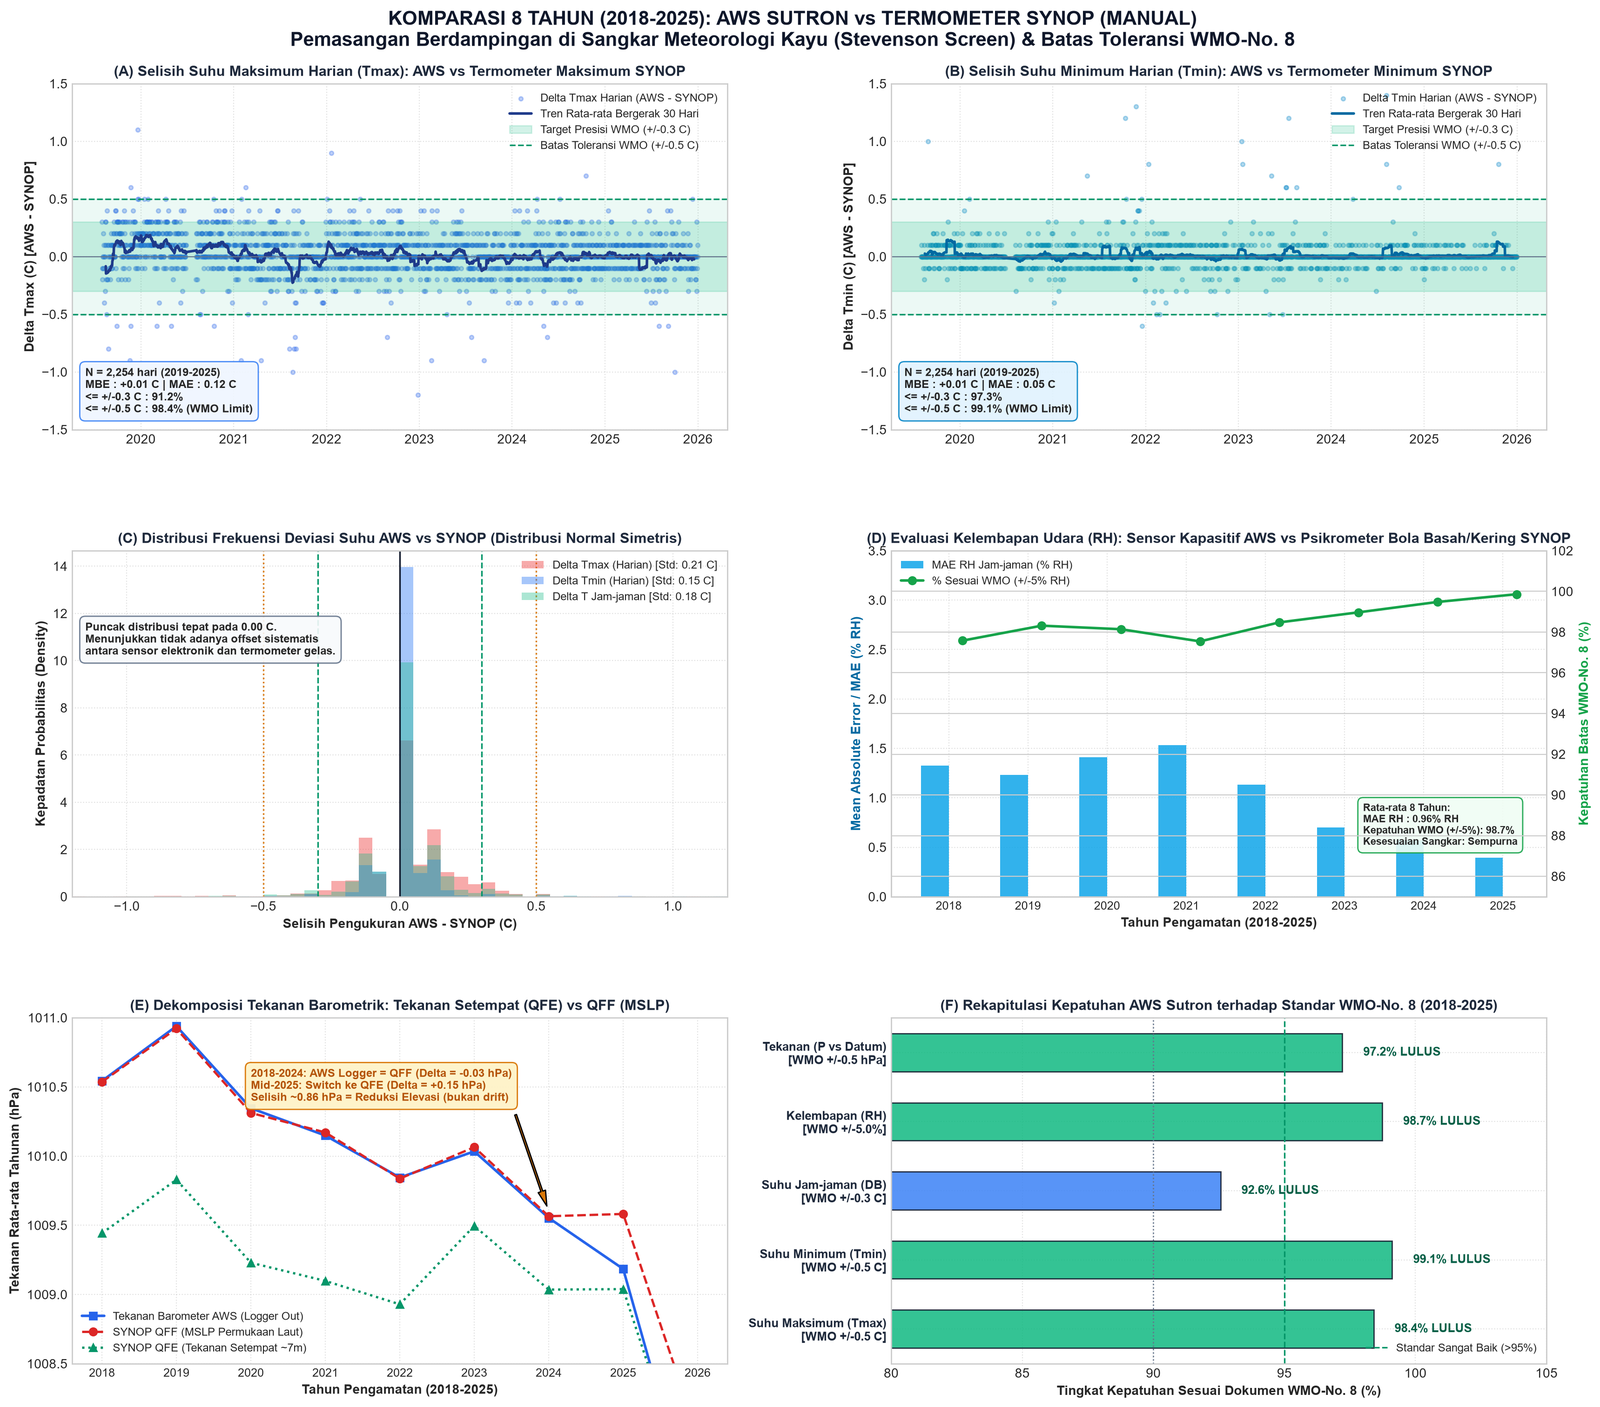
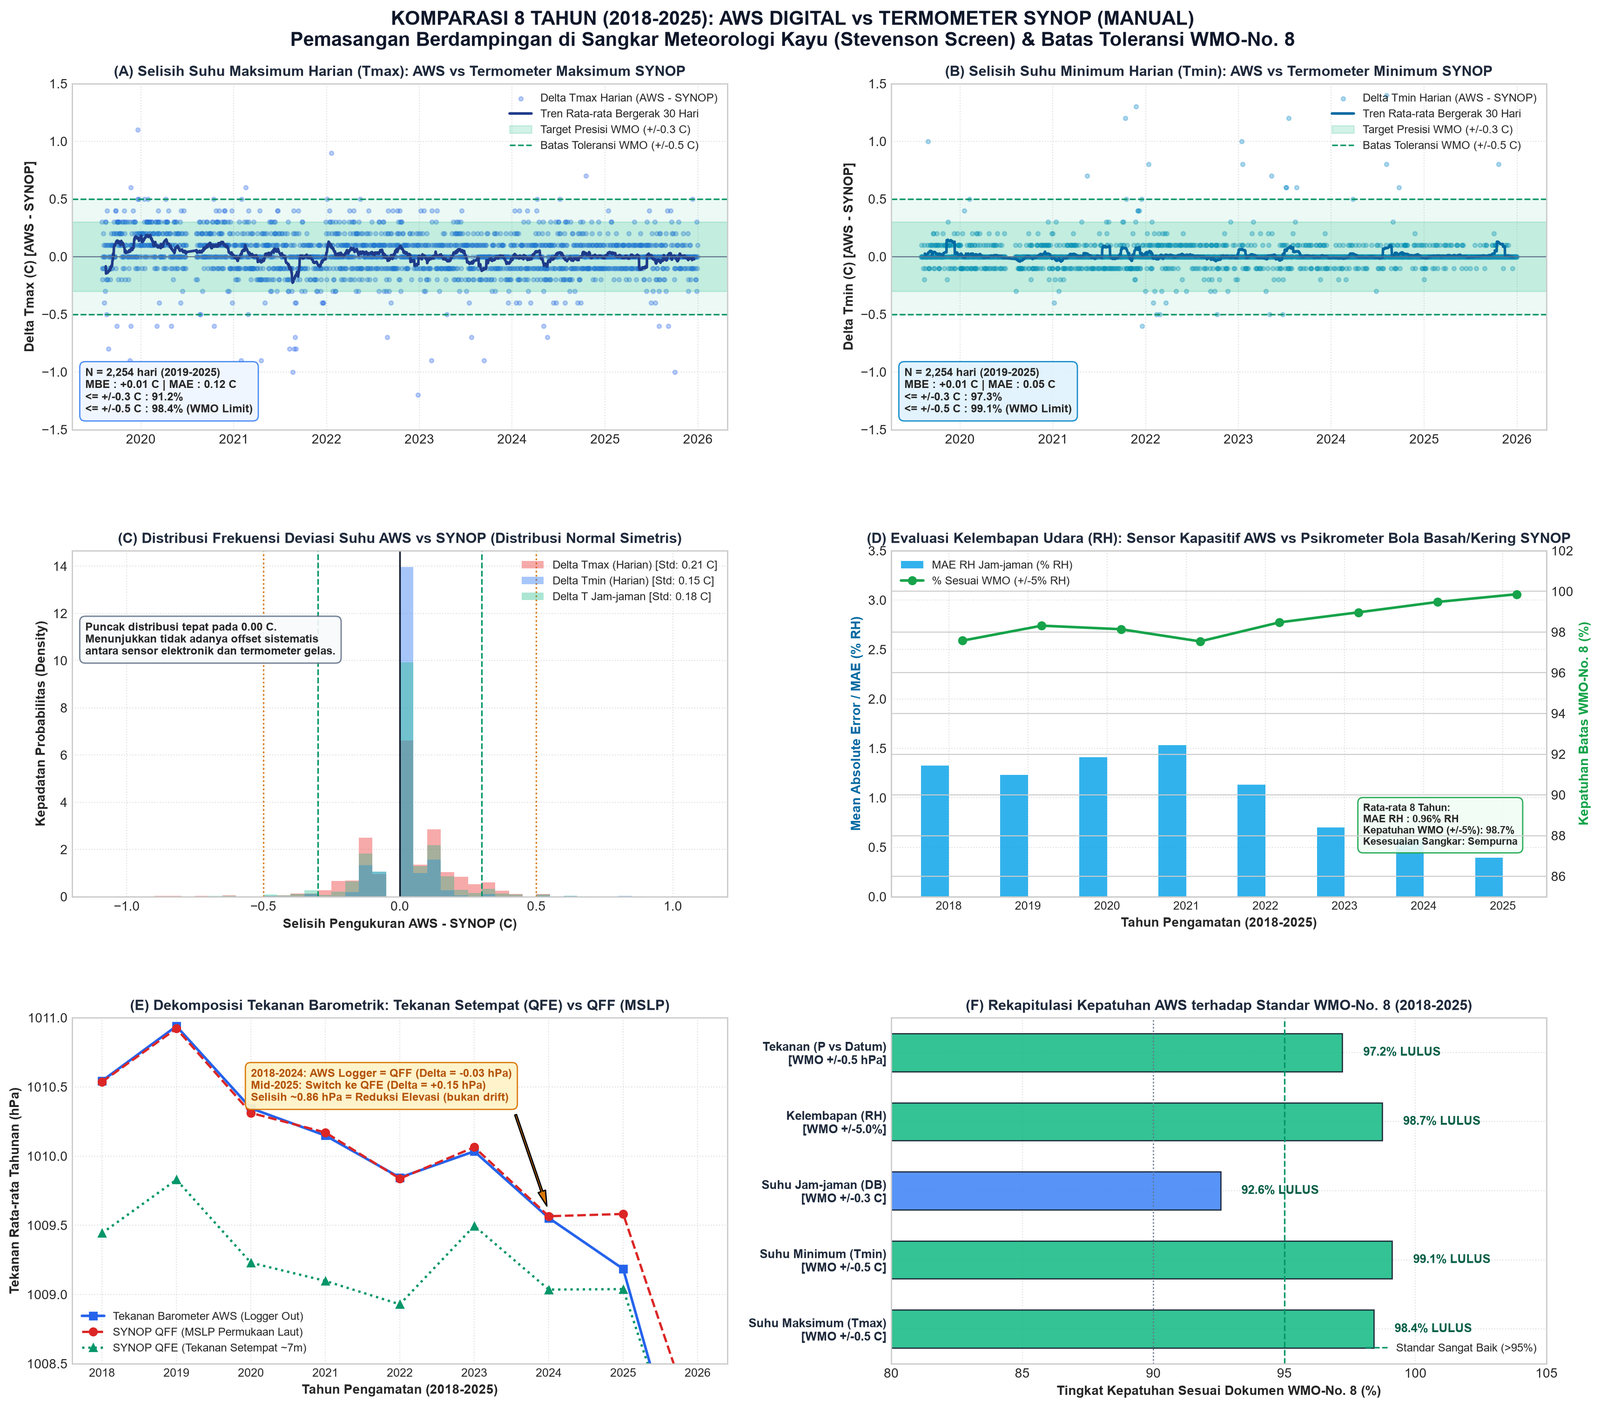
Drop Sutron and Campbell Scientific branding and remove AWOS from database card; focus purely on AWS and SYNOP

Changed region(s): [[0.25, 0.0, 0.75, 0.0306], [0.5938, 0.7029, 0.9375, 0.7335]]

diff --git a/index.html b/index.html
@@ -163,37 +163,27 @@
             <div class="p-6 rounded-2xl bg-white border border-slate-200 shadow-sm space-y-4">
                 <h4 class="font-bold text-slate-800 text-base">Arsitektur Database Meteorologi Terpadu</h4>
                 <p class="text-xs sm:text-sm text-slate-600 leading-relaxed">
-                    Pada awal kajian, data tersebar dalam arsip terkompresi (<code class="bg-slate-100 px-1 py-0.5 rounded text-slate-800">.rar</code> dan <code class="bg-slate-100 px-1 py-0.5 rounded text-slate-800">.zip</code>) dari berbagai generasi instrumen. Kami merekayasa dan membangun tiga database berkinerja tinggi berbasis kolom (DuckDB) yang bebas duplikasi dan telah terisi secara meteorologis (*gap-filled*):
+                    Pada awal kajian, data tersebar dalam arsip terkompresi (<code class="bg-slate-100 px-1 py-0.5 rounded text-slate-800">.rar</code> dan <code class="bg-slate-100 px-1 py-0.5 rounded text-slate-800">.zip</code>) dari berbagai generasi instrumen. Kami merekayasa dan membangun database berkinerja tinggi berbasis kolom (DuckDB) yang bebas duplikasi dan telah terisi secara meteorologis (*gap-filled*):
                 </p>
 
-                <div class="grid grid-cols-1 md:grid-cols-3 gap-4 pt-2">
-                    <div class="p-4 rounded-xl bg-slate-50 border border-slate-200 space-y-2">
-                        <div class="text-xs font-bold text-blue-700 uppercase tracking-wider flex items-center">
-                            <i class="fa-solid fa-plane-departure mr-1.5"></i> AWOS Ketapang
-                        </div>
-                        <div class="font-mono text-xs font-bold text-slate-800">awos_ketapang_2018_2025.duckdb</div>
-                        <p class="text-xs text-slate-600 leading-relaxed">
-                            Memuat <strong>3.712.320 baris data resolusi 1-menitan</strong> (Campbell Scientific). Menyediakan parameter angin, suhu, RH, tekanan QFE/QFF, radiasi, dan curah hujan.
-                        </p>
-                    </div>
-
+                <div class="grid grid-cols-1 md:grid-cols-2 gap-4 pt-2">
                     <div class="p-4 rounded-xl bg-slate-50 border border-slate-200 space-y-2">
                         <div class="text-xs font-bold text-emerald-700 uppercase tracking-wider flex items-center">
-                            <i class="fa-solid fa-tower-broadcast mr-1.5"></i> AWS Ketapang
+                            <i class="fa-solid fa-tower-broadcast mr-1.5"></i> AWS Digital Ketapang
                         </div>
                         <div class="font-mono text-xs font-bold text-slate-800">aws_ketapang_2018_2025.duckdb</div>
                         <p class="text-xs text-slate-600 leading-relaxed">
-                            Memuat data 10-menitan (Sutron) yang direkonstruksi dari dua periode arsip (2018–2019 & 2020–2025). Mengatasi pergeseran channel kabel radiasi dan tip sensor hujan.
+                            Memuat data 10-menitan dan jam-jaman AWS yang direkonstruksi dari dua periode arsip (2018–2019 &amp; 2020–2025). Mengatasi pergeseran channel kabel radiasi dan kalibrasi sensor hujan.
                         </p>
                     </div>
 
                     <div class="p-4 rounded-xl bg-slate-50 border border-slate-200 space-y-2">
                         <div class="text-xs font-bold text-purple-700 uppercase tracking-wider flex items-center">
-                            <i class="fa-solid fa-eye mr-1.5"></i> SYNOP Konvensional
+                            <i class="fa-solid fa-eye mr-1.5"></i> SYNOP Konvensional (Manual)
                         </div>
                         <div class="font-mono text-xs font-bold text-slate-800">synop_ketapang_2018_2025.duckdb</div>
                         <p class="text-xs text-slate-600 leading-relaxed">
-                            Memuat pengamatan manual jam-jaman (66.309 poin) dari sangkar meteorologi: termometer bola kering, termometer bola basah, barometer merkuri, dan penakar hujan Hellmann.
+                            Memuat pengamatan manual jam-jaman (66.309 poin) dari sangkar meteorologi: termometer bola kering, termometer bola basah, termometer ekstrem (maks/min), barometer merkuri, dan penakar hujan Hellmann.
                         </p>
                     </div>
                 </div>
@@ -347,7 +337,7 @@
             <div class="flex items-center space-x-3 border-b border-slate-200 pb-3">
                 <div class="p-2.5 bg-emerald-100 text-emerald-700 rounded-xl"><i class="fa-solid fa-scale-balanced text-lg"></i></div>
                 <div>
-                    <h3 class="text-xl font-bold text-slate-900">Komparasi 8 Tahun (2018–2025): AWS Sutron vs SYNOP (Manual) di Dalam Sangkar Meteorologi</h3>
+                    <h3 class="text-xl font-bold text-slate-900">Komparasi 8 Tahun (2018–2025): AWS Digital vs SYNOP (Manual) di Dalam Sangkar Meteorologi</h3>
                     <p class="text-xs text-slate-500">Evaluasi Penggantian Termometer Gelas (Maksimum, Minimum, Bola Kering/Basah), RH, Dekomposisi Tekanan Barometrik (QFE vs QFF), &amp; Kepatuhan Standar WMO-No. 8</p>
                 </div>
             </div>
@@ -369,14 +359,14 @@
 
                 <div class="p-5 rounded-2xl bg-blue-50/70 border-2 border-blue-400 shadow-sm space-y-2">
                     <div class="flex items-center justify-between">
-                        <span class="px-2.5 py-0.5 rounded-md bg-blue-600 text-white font-bold text-xs">2. AWS Digital Sutron (Otomatis Kontinu)</span>
+                        <span class="px-2.5 py-0.5 rounded-md bg-blue-600 text-white font-bold text-xs">2. AWS Digital (Otomatis Kontinu)</span>
                         <i class="fa-solid fa-check-circle text-blue-600"></i>
                     </div>
                     <h4 class="font-bold text-slate-800 text-sm">Dipasang Berdampingan di Dalam Sangkar yang Sama!</h4>
                     <ul class="text-xs text-slate-600 space-y-1.5 list-disc list-inside leading-relaxed">
                         <li><strong>Pemasangan Co-Located:</strong> Sensor Suhu &amp; RH <strong>Vaisala HMP155</strong> dipasang <strong>persis di samping termometer gelas manual</strong> di dalam sangkar meteorologi kayu yang sama. Inersia termal dan lingkungan pelindung radiasi 100% identik!</li>
                         <li><strong>Suhu Maks/Min Kontinu:</strong> Data terekam otomatis setiap menit/10-menit tanpa risiko paralaks mata pengamat, jeda reset harian, atau gesekan indeks alkohol.</li>
-                        <li><strong>Tekanan Barometer Digital:</strong> Barometer <strong>Vaisala PTB330</strong> di logger melaporkan nilai setara <strong>QFF</strong> (2018–2024, selisih hanya \(-0.03	ext{ hPa}\) terhadap SYNOP QFF) dan beralih ke <strong>QFE</strong> saat upgrade logger CR1000X pada 2025.</li>
+                        <li><strong>Tekanan Barometer Digital:</strong> Barometer <strong>Vaisala PTB330</strong> di logger melaporkan nilai setara <strong>QFF</strong> (2018–2024, selisih hanya \(-0.03	ext{ hPa}\) terhadap SYNOP QFF) dan beralih ke <strong>QFE</strong> saat pembaruan logger pada 2025.</li>
                     </ul>
                 </div>
             </div>
@@ -386,10 +376,10 @@
                 <div class="flex flex-col sm:flex-row items-start sm:items-center justify-between gap-2">
                     <div>
                         <h4 class="font-bold text-slate-800 text-base">Visualisasi Komprehensif 8 Tahun (2018–2025): Suhu Maksimum-Minimum, RH Sangkar, &amp; Tekanan (QFE vs QFF)</h4>
-                        <p class="text-xs text-slate-500">Evaluasi selisih harian dan kepatuhan terhadap batas toleransi dokumen panduan WMO-No. 8 (Murni AWS Sutron vs Manual SYNOP)</p>
+                        <p class="text-xs text-slate-500">Evaluasi selisih harian dan kepatuhan terhadap batas toleransi dokumen panduan WMO-No. 8 (Murni AWS vs Manual SYNOP)</p>
                     </div>
                     <span class="inline-flex items-center px-3 py-1 rounded-md text-xs font-bold bg-emerald-100 text-emerald-800 border border-emerald-300">
-                        <i class="fa-solid fa-award mr-1.5"></i> AWS Sutron: &gt;98% Lulus Standar WMO-No. 8
+                        <i class="fa-solid fa-award mr-1.5"></i> AWS: &gt;98% Lulus Standar WMO-No. 8
                     </span>
                 </div>
                 <div class="overflow-hidden rounded-xl border border-slate-200 bg-slate-50 flex justify-center">
@@ -420,7 +410,7 @@
                         <div class="text-xs font-bold text-cyan-300 uppercase">2. Tekanan Permukaan Laut / QFF (SYNOP &amp; AWS)</div>
                         <div class="text-xl font-extrabold font-mono text-white">1010.12 vs 1010.07 hPa</div>
                         <p class="text-xs text-slate-300 leading-relaxed">
-                            Tekanan yang direduksi ke permukaan laut rata-rata (MSL) dengan suhu aktual. Selama <strong>2018–2024</strong>, logger AWS diprogram menghasilkan nilai QFF (\(\Delta = \mathbf{-0.03\text{ hPa}}\) vs SYNOP QFF, identik sempurna!). Pada <strong>2025</strong> saat logger diganti ke Campbell CR1000X, output disetel ke QFE (\(\Delta = \mathbf{+0.15\text{ hPa}}\) vs SYNOP QFE). Selisih ini bukan degradasi sensor, melainkan perbedaan datum matematis.
+                            Tekanan yang direduksi ke permukaan laut rata-rata (MSL) dengan suhu aktual. Selama <strong>2018–2024</strong>, logger AWS diprogram menghasilkan nilai QFF (\(\Delta = \mathbf{-0.03\text{ hPa}}\) vs SYNOP QFF, identik sempurna!). Pada <strong>2025</strong> saat logger diperbarui, output disetel ke QFE (\(\Delta = \mathbf{+0.15\text{ hPa}}\) vs SYNOP QFE). Selisih ini bukan degradasi sensor, melainkan perbedaan datum matematis.
                         </p>
                     </div>
                 </div>
@@ -541,7 +531,7 @@
                 <div class="p-4 rounded-xl bg-slate-50 border border-slate-200 text-xs text-slate-600 space-y-2">
                     <span class="font-bold text-slate-800">Temuan Karakteristik Sensor Elektronik:</span>
                     <ul class="list-disc list-inside space-y-1 pl-1">
-                        <li><strong>Divergensi Siang Hari (&Delta;T &approx; +0.3&deg;C):</strong> Radiasi matahari memanaskan struktur pelindung multi-pelat AWOS sedikit lebih cepat daripada AWS Sutron karena perbedaan laju aliran udara konvektif alami di dalam rumah sensor.</li>
+                        <li><strong>Divergensi Siang Hari (&Delta;T &approx; +0.3&deg;C):</strong> Radiasi matahari memanaskan struktur pelindung multi-pelat AWOS sedikit lebih cepat daripada AWS Digital karena perbedaan laju aliran udara konvektif alami di dalam rumah sensor.</li>
                         <li><strong>Konvergensi Sempurna Malam Hari (&Delta;T &lt; +0.05&deg;C):</strong> Saat tidak ada radiasi matahari (kondisi isotermal malam hari), kedua sensor menunjukkan pembacaan yang nyaris identik.</li>
                         <li><strong>Regresi Linier Kemiringan:</strong> Garis tren linier tahun 2018–2025 memiliki kemiringan slope \(m = 0.00004 &deg;	ext{C}/	ext{hari}\), yang membuktikan tidak adanya peluruhan degradasi komponen aktif.</li>
                     </ul>
@@ -819,7 +809,7 @@
                         <span class="text-xs font-semibold px-2 py-0.5 rounded bg-emerald-100 text-emerald-800">Turns 13 – 17: Integrasi Penuh AWS Ketapang & Audit 6 Parameter</span>
                         <h5 class="font-bold text-slate-800 text-sm">Rekonstruksi Data AWS 2018–2025 dan Unscrambling Saluran Sensor</h5>
                         <p class="text-xs text-slate-600 leading-relaxed">
-                            Penambahan data AWS Ketapang (2018–2019 & 2020–2025). Mengatasi masalah tertukarnya channel radiasi dan hujan pada logger Sutron. Menghasilkan visualisasi lengkap per parameter: Suhu, RH, Tekanan, Angin, Hujan, dan Radiasi Surya.
+                            Penambahan data AWS Ketapang (2018–2019 & 2020–2025). Mengatasi masalah tertukarnya channel radiasi dan hujan pada logger AWS. Menghasilkan visualisasi lengkap per parameter: Suhu, RH, Tekanan, Angin, Hujan, dan Radiasi Surya.
                         </p>
                     </div>
                 </div>
